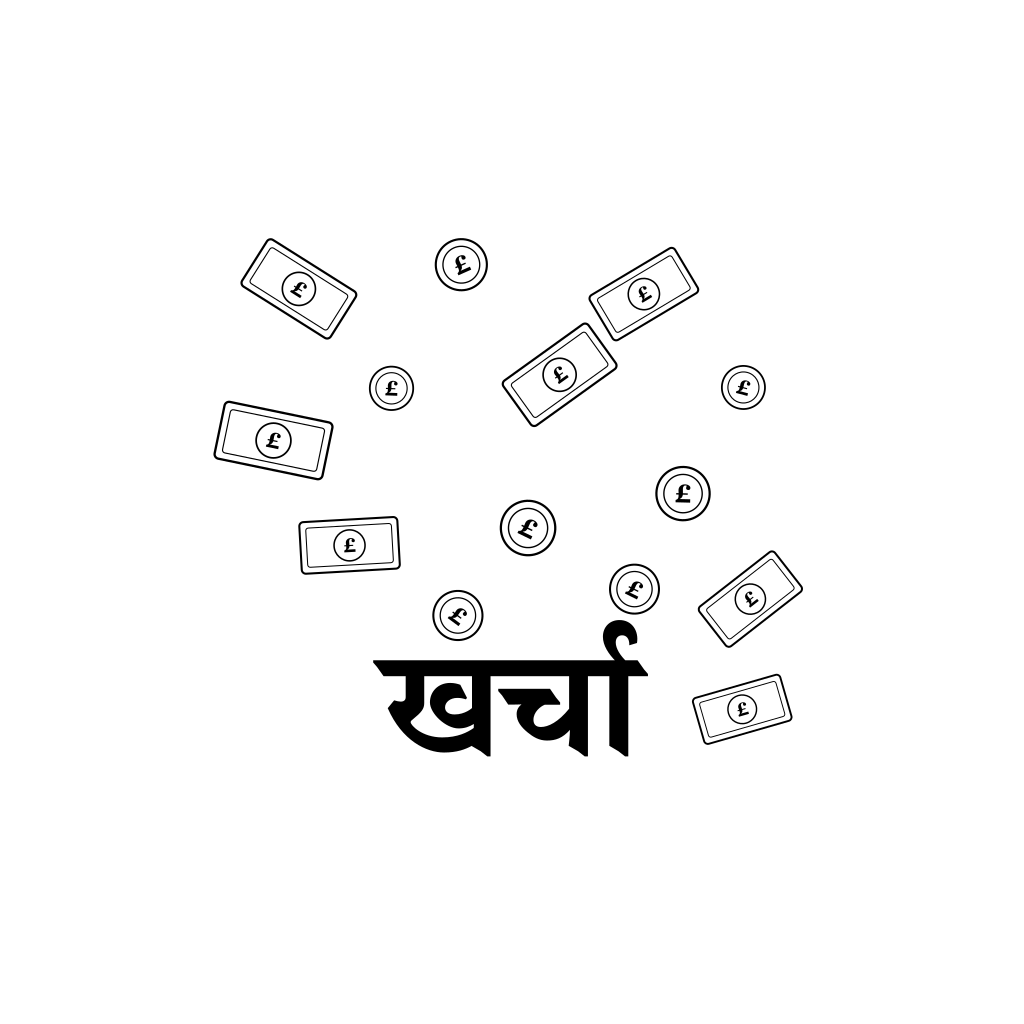
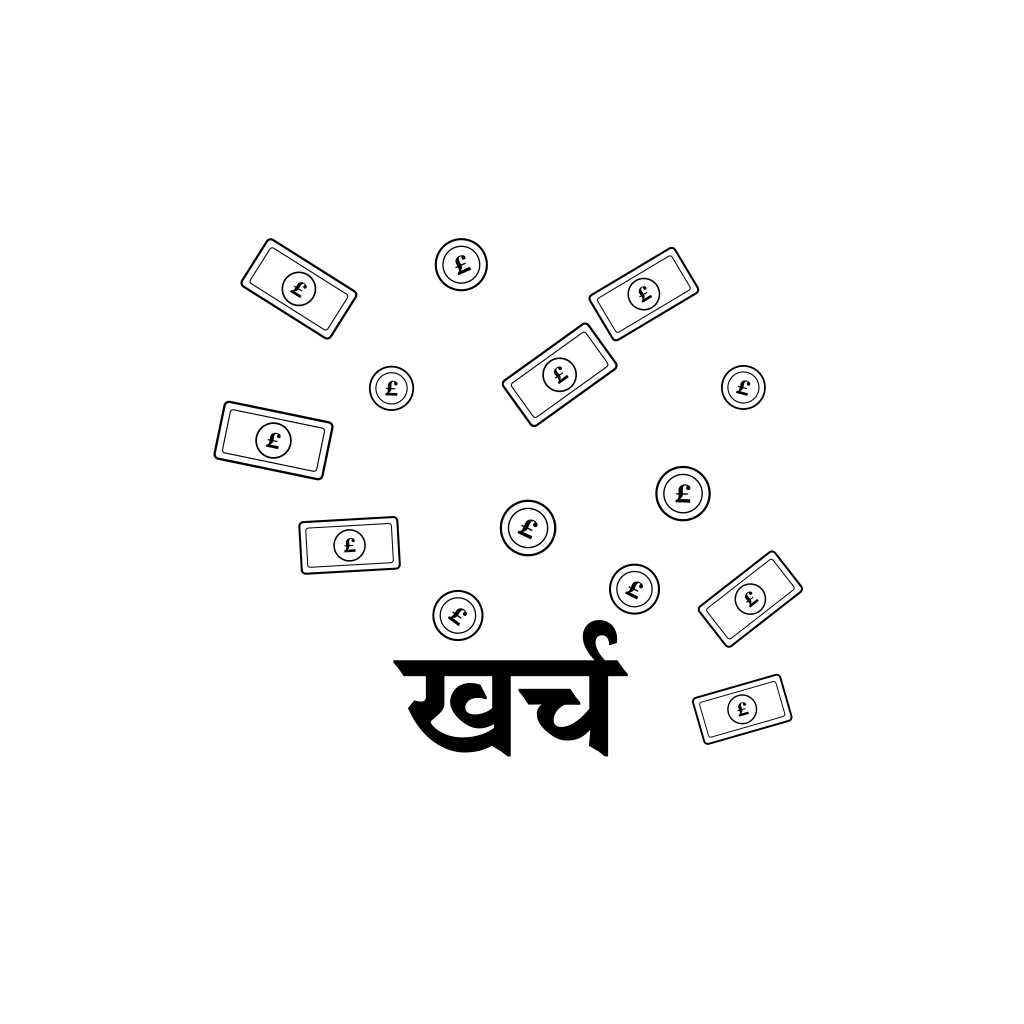
Write the name the Nepali way: खर्च
The icon, splash, cabinet nameplate and README said खर्चा; the name
is the Nepali खर्च (spending). Version 1.3.1.

Changed region(s): [[0.375, 0.5938, 0.625, 0.75]]

diff --git a/src/components/locker.tsx b/src/components/locker.tsx
@@ -129,7 +129,7 @@ export function Locker({ phase, message, error, onLogin, onSignOut, onUnlocked }
       <Animated.View style={[styles.titleWrap, { top: insets.top + height * 0.1 }, title]} pointerEvents="none">
         <LinearGradient colors={brass} style={styles.nameplate}>
           <Text style={styles.nameplateTitle}>KHARCHA</Text>
-          <Text style={styles.nameplateSub}>खर्चा · Adi&apos;s money tracker</Text>
+          <Text style={styles.nameplateSub}>खर्च · Adi&apos;s money tracker</Text>
           <Animated.View style={[styles.shine, shine]} />
         </LinearGradient>
       </Animated.View>

diff --git a/scripts/make-icons.py b/scripts/make-icons.py
@@ -1,6 +1,6 @@
 """Draws the app icon, Android adaptive icon layers, splash image and favicon.
 
-Money raining down on dark walnut, with the app's name, खर्चा (Kharcha),
+Money raining down on dark walnut, with the app's name, खर्च (Kharcha),
 written in gold Devanagari along the bottom. Needs rsvg-convert
 (brew install librsvg) and a Devanagari font (macOS ships several).
 Run: python3 scripts/make-icons.py
@@ -8,7 +8,7 @@ Run: python3 scripts/make-icons.py
 import os, random, subprocess, tempfile
 
 OUT = "assets/images"
-NAME = "खर्चा"
+NAME = "खर्च"
 FONT = "ITF Devanagari Marathi"
 GOLD = "#f2d27a"
 

diff --git a/README.md b/README.md
@@ -1,4 +1,4 @@
-# Kharcha (खर्चा)
+# Kharcha (खर्च)
 
 Kharcha is a personal budgeting app for people who bank with Monzo. Every pay cycle is a leather-bound book on a wooden shelf. When your salary lands, you give every pound a job by assigning it to an envelope; after that, Kharcha reads your Monzo transactions and tells you what is left in each envelope and how much fun money you have left.
 
@@ -17,7 +17,7 @@ It runs on Android, iOS and the web from one codebase. It is built for one perso
 
 ## How it looks
 
-- **The icon.** Notes and coins raining down, with खर्चा in gold along the bottom.
+- **The icon.** Notes and coins raining down, with खर्च in gold along the bottom.
 - **The locked cabinet.** Opening the app shows an antique cabinet: the doors close in, a brass lock drops into place and a "Login to Monzo" button rises. Once Monzo access is approved the key turns, the lock falls away and the doors swing open onto the shelf.
 - **Transactions on the shelf.** Every payment from the last six months, newest first, with a heading and net total for each day.
 - **The shelf.** One book per pay cycle, newest first. A book glows and carries a "To do" ribbon when money is unassigned or transactions need an envelope.
